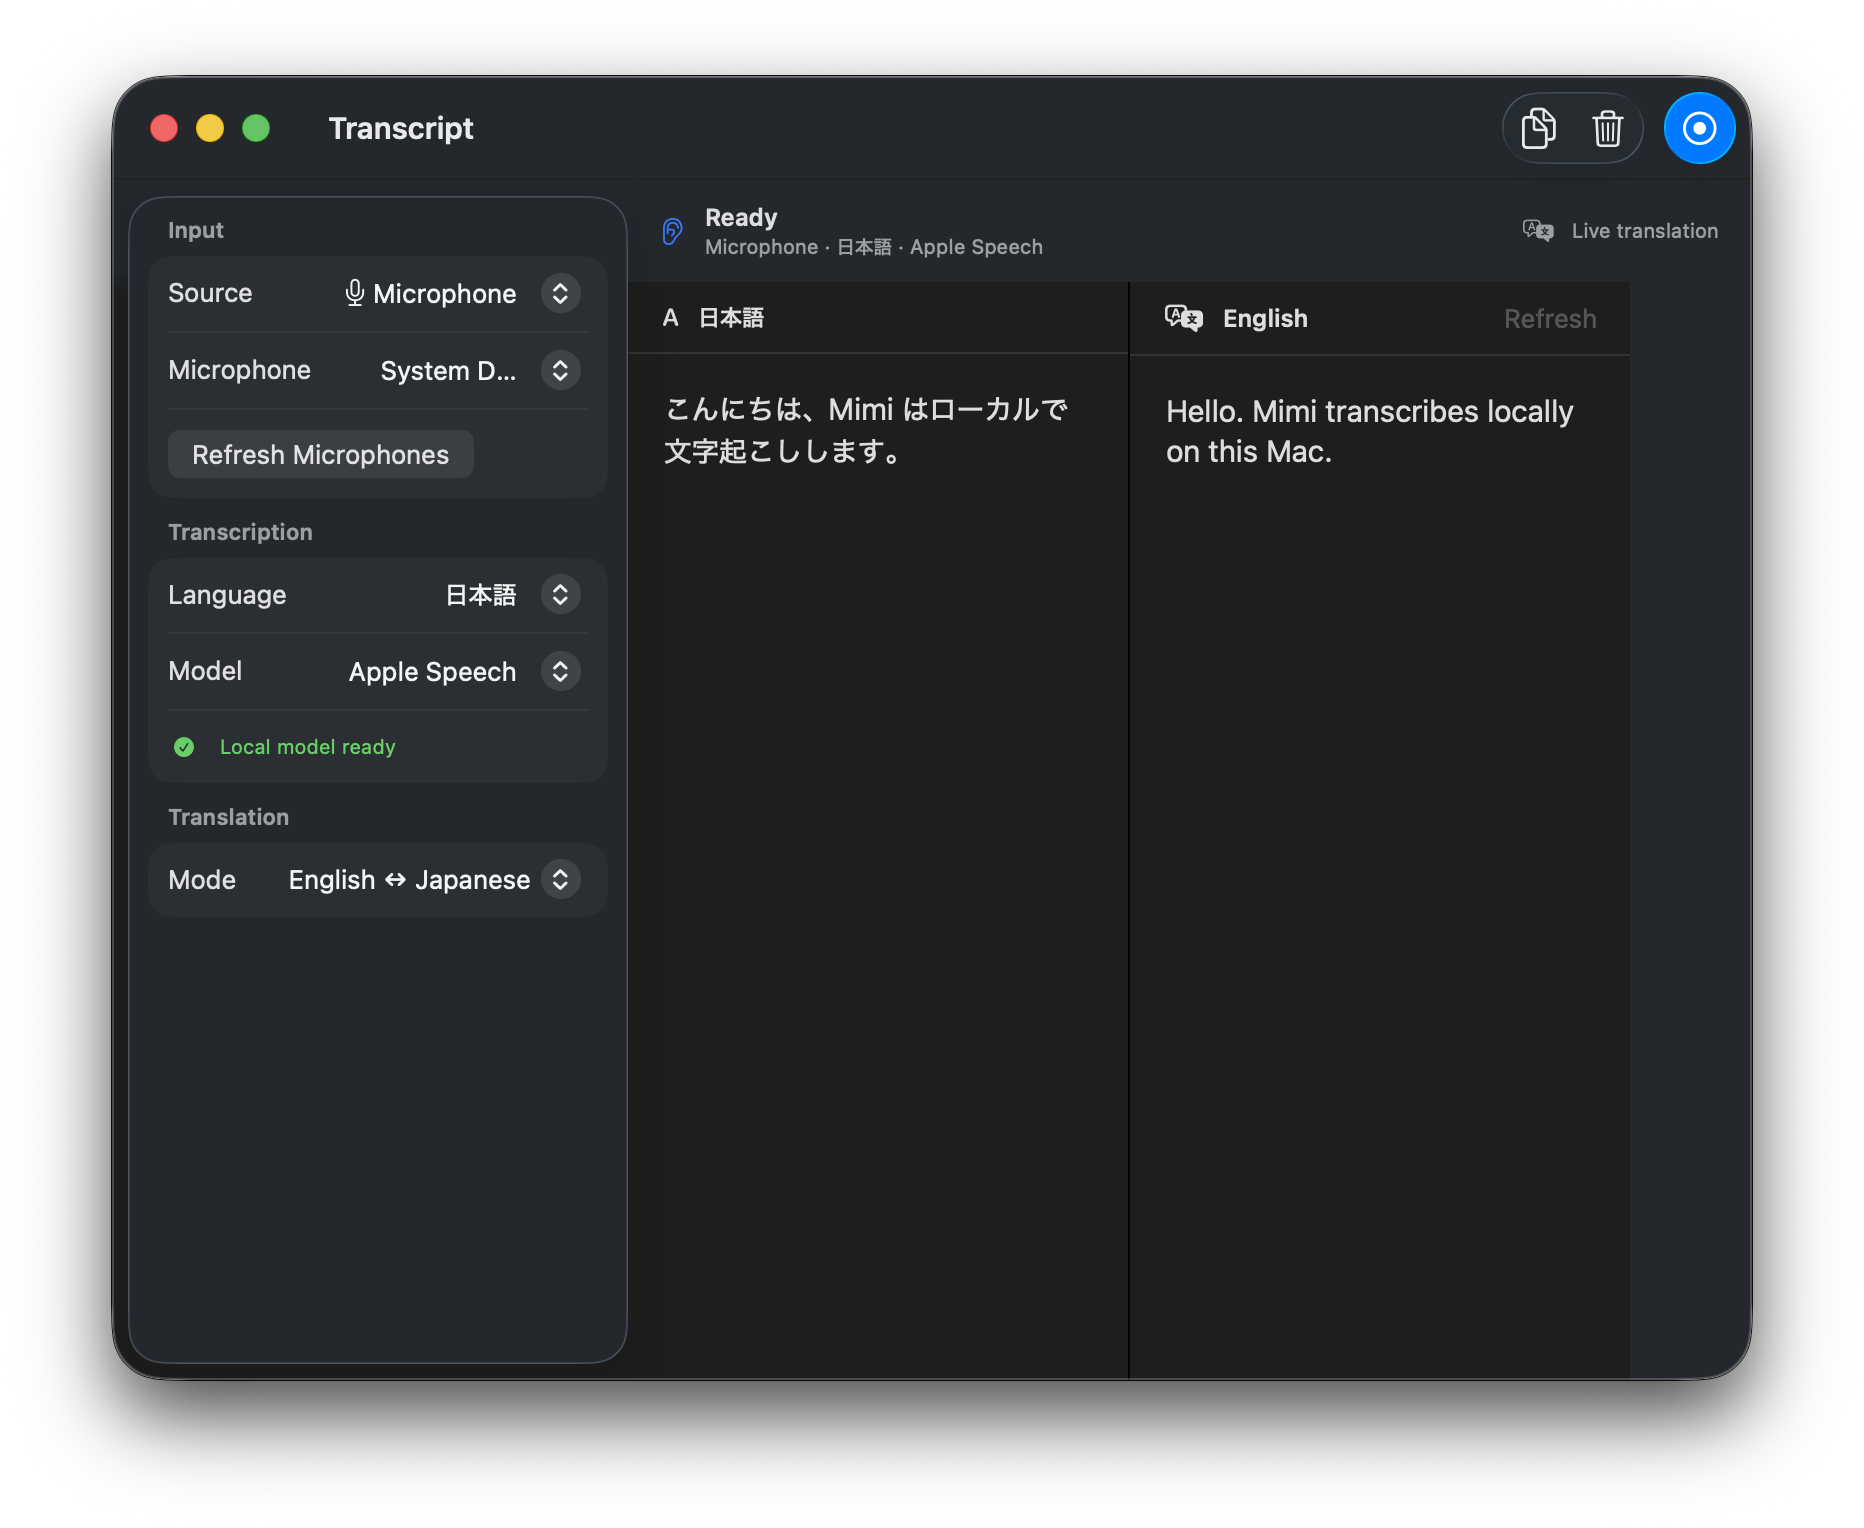
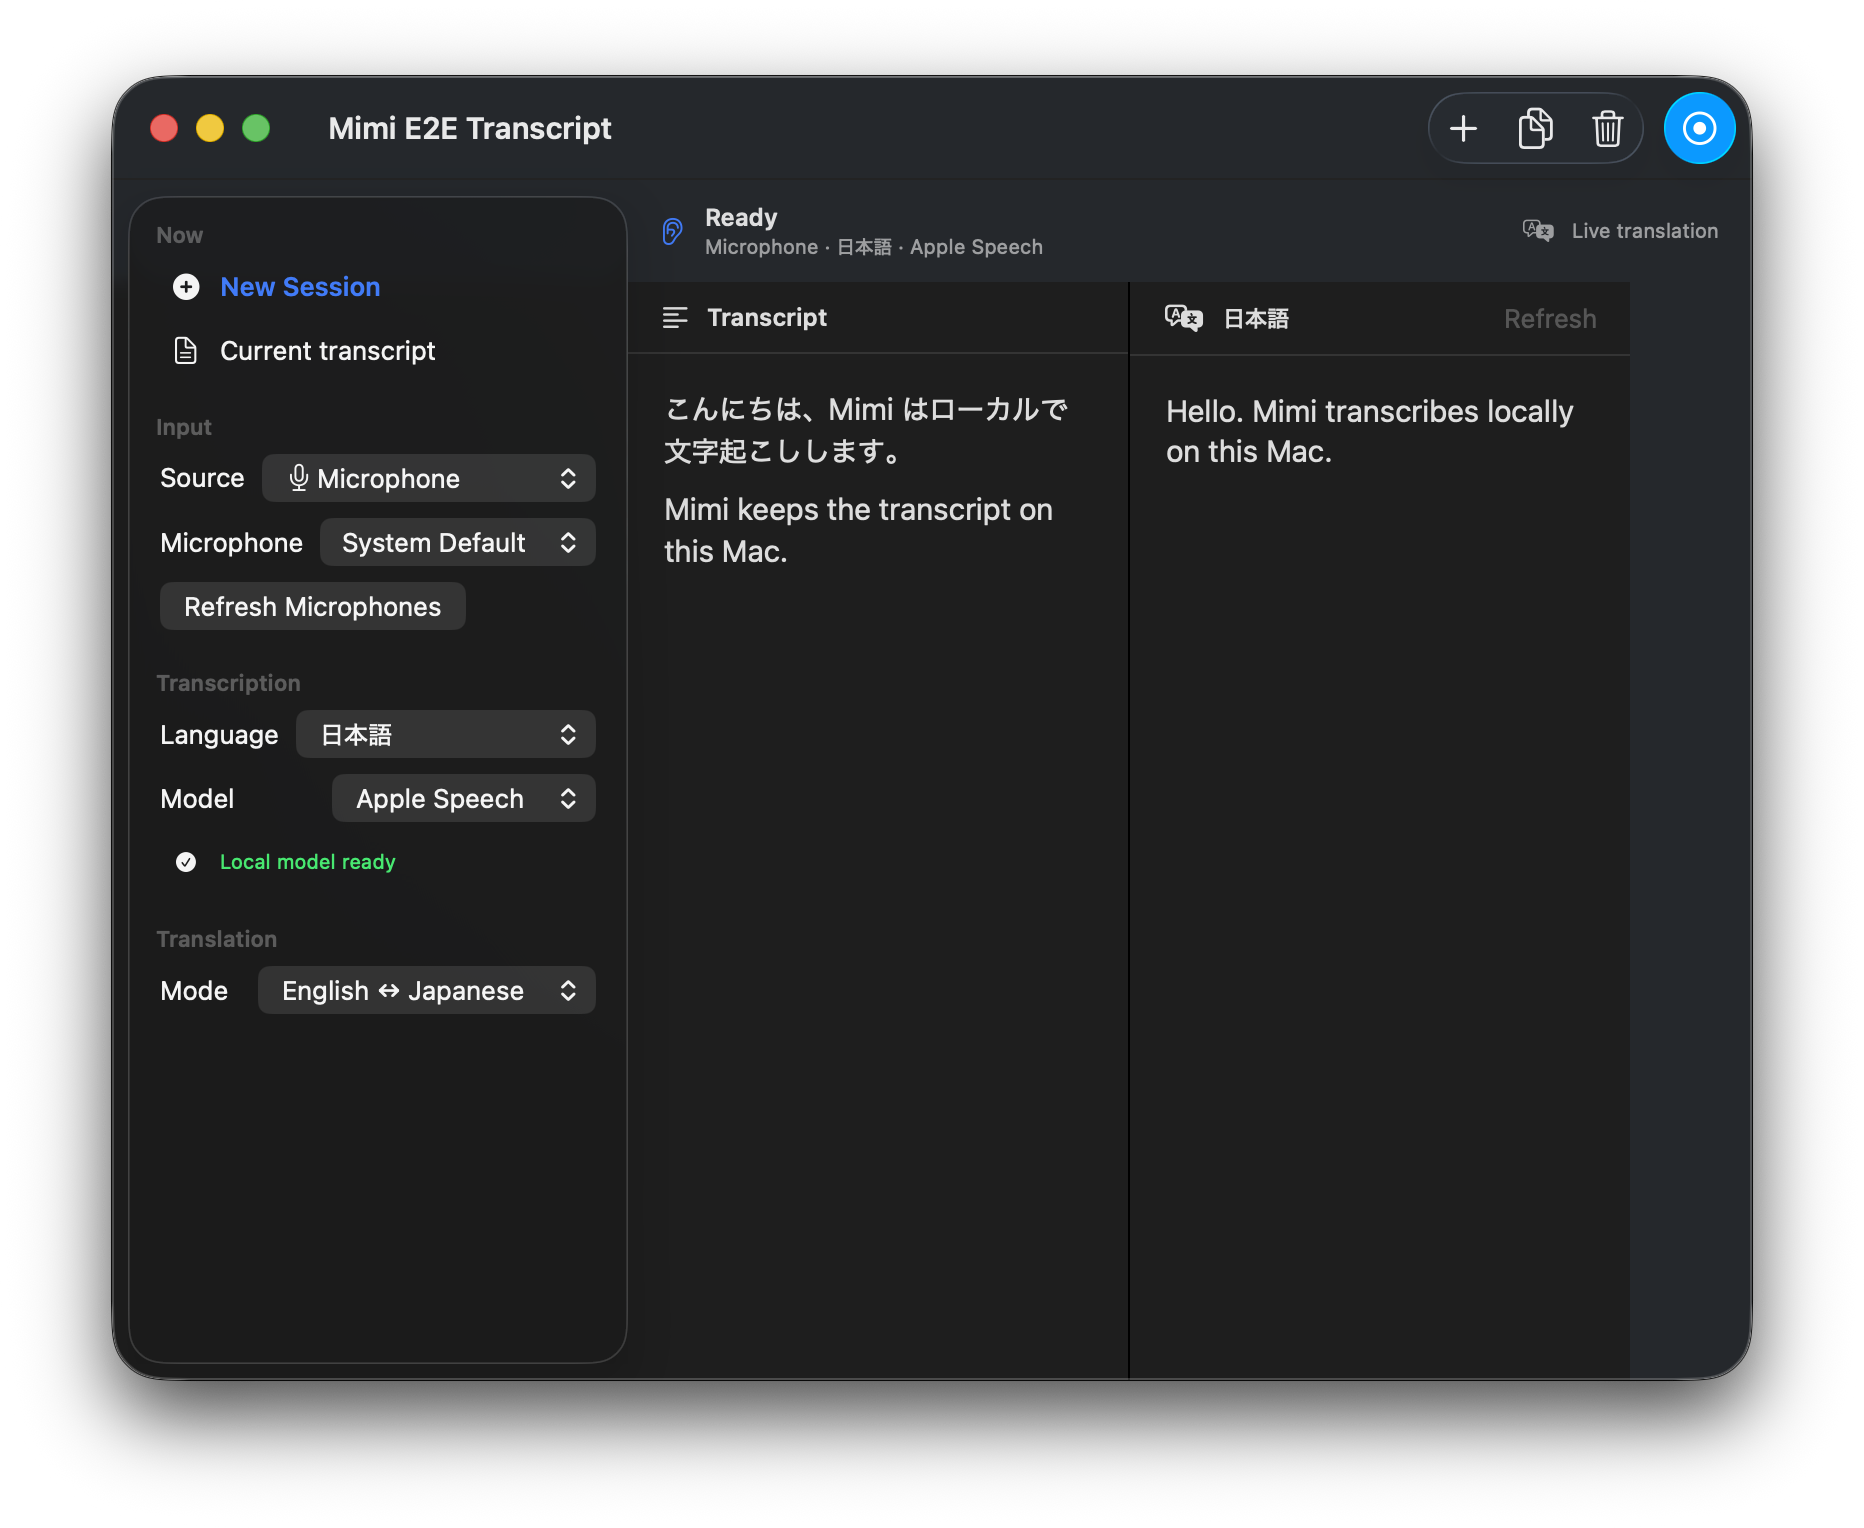
Synchronize realtime captions and polish menu UI

diff --git a/Sources/Mimi/MenuBarView.swift b/Sources/Mimi/MenuBarView.swift
@@ -24,41 +24,47 @@ struct MenuBarView: View {
     }
 
     var body: some View {
-        VStack(alignment: .leading, spacing: MimiMetrics.sectionSpacing) {
-            MimiStatusHeader(state: store.recordingState, source: store.source)
+        ZStack {
+            Color(nsColor: .windowBackgroundColor)
+                .ignoresSafeArea()
 
-            Button {
-                store.newSession()
-            } label: {
-                Label(t("New Session", "新しいセッション"), systemImage: "plus")
-                    .frame(maxWidth: .infinity)
+            VStack(alignment: .leading, spacing: MimiMetrics.sectionSpacing) {
+                MimiStatusHeader(state: store.recordingState, source: store.source)
+
+                if !store.controlsLocked {
+                    Button {
+                        store.newSession()
+                    } label: {
+                        Label(t("New Session", "新しいセッション"), systemImage: "plus")
+                            .frame(maxWidth: .infinity)
+                    }
+                    .buttonStyle(.bordered)
+                    .controlSize(.large)
+                }
+
+                recordingButton
+
+                if let message = store.lastError {
+                    Label(message, systemImage: "exclamationmark.triangle.fill")
+                        .font(.caption)
+                        .foregroundStyle(.orange)
+                        .fixedSize(horizontal: false, vertical: true)
+                        .frame(maxWidth: .infinity, alignment: .leading)
+                        .mimiCard(padding: 10)
+                        .accessibilityLabel("Recording warning: \(message)")
+                }
+
+                configuration
+
+                if needsModelSetupAction {
+                    modelSetup
+                }
+
+                transcriptPreview
+                footer
             }
-            .buttonStyle(.bordered)
-            .controlSize(.large)
-            .disabled(store.controlsLocked)
-
-            recordingButton
-
-            if let message = store.lastError {
-                Label(message, systemImage: "exclamationmark.triangle.fill")
-                    .font(.caption)
-                    .foregroundStyle(.orange)
-                    .fixedSize(horizontal: false, vertical: true)
-                    .frame(maxWidth: .infinity, alignment: .leading)
-                    .mimiCard(padding: 10)
-                    .accessibilityLabel("Recording warning: \(message)")
-            }
-
-            configuration
-
-            if needsModelSetupAction {
-                modelSetup
-            }
-
-            transcriptPreview
-            footer
+            .padding(16)
         }
-        .padding(16)
         .frame(width: 430)
     }
 

diff --git a/Sources/Mimi/FloatingCaptionPanel.swift b/Sources/Mimi/FloatingCaptionPanel.swift
@@ -118,6 +118,7 @@ struct FloatingCaptionView: View {
     @Environment(\.accessibilityReduceTransparency) private var reduceTransparency
     @State private var configuration: TranslationSession.Configuration?
     @State private var translatedText = ""
+    @State private var translatedSourceText = ""
     @State private var requestedText = ""
     @State private var pendingText = ""
     @State private var isTranslating = false
@@ -129,7 +130,10 @@ struct FloatingCaptionView: View {
         return store.document.contentLanguage(fallback: store.sourceLanguage)
     }
     private var sourceText: String {
-        store.document.realtimeTranslationContext(for: sourceLanguage, maximumCharacterCount: 320)
+        store.document.latestCaptionText
+    }
+    private var synchronizedTranslation: String {
+        translatedSourceText == sourceText ? translatedText : ""
     }
 
     var body: some View {
@@ -138,8 +142,14 @@ struct FloatingCaptionView: View {
                 if preferences.floatingCaptionContent != .translation {
                     caption(sourceText, secondary: preferences.floatingCaptionContent == .both)
                 }
-                if preferences.floatingCaptionContent != .original {
-                    caption(translatedText, secondary: false)
+            if preferences.floatingCaptionContent != .original {
+                if !synchronizedTranslation.isEmpty {
+                    caption(synchronizedTranslation, secondary: false)
+                } else if !sourceText.isEmpty {
+                    Text("…")
+                        .font(.title2.weight(.semibold))
+                        .foregroundStyle(.secondary)
+                }
                 }
                 if sourceText.isEmpty && translatedText.isEmpty {
                     Text(preferences.text("Captions will appear here", "字幕がここに表示されます"))
@@ -186,8 +196,12 @@ struct FloatingCaptionView: View {
             do {
                 try await session.prepareTranslation()
                 let response = try await session.translate(text)
-                guard requestedText == text else { return }
+                guard requestedText == text, pendingText == text else {
+                    isTranslating = false
+                    return
+                }
                 translatedText = response.targetText
+                translatedSourceText = text
             } catch {
                 guard requestedText == text else { return }
                 translatedText = preferences.text("Translation is not ready yet.", "翻訳の準備がまだできていません。")
@@ -196,14 +210,18 @@ struct FloatingCaptionView: View {
         }
         .onChange(of: sourceText, initial: true) { _, text in
             pendingText = text
-            if text.isEmpty { translatedText = "" }
+            if text.isEmpty {
+                translatedText = ""
+                translatedSourceText = ""
+            }
         }
         .task(id: sourceLanguage) {
             configuration = nil
             translatedText = ""
+            translatedSourceText = ""
             requestedText = ""
             while !Task.isCancelled {
-                try? await Task.sleep(for: .milliseconds(700))
+                try? await Task.sleep(for: .milliseconds(250))
                 guard !Task.isCancelled,
                       preferences.floatingCaptionContent != .original,
                       !pendingText.isEmpty,

diff --git a/Sources/Mimi/MimiApp.swift b/Sources/Mimi/MimiApp.swift
@@ -384,7 +384,7 @@ final class MimiAppDelegate: NSObject, NSApplicationDelegate {
         guard arguments.contains("--e2e-window") else { return }
 
         let store = AppStore(loadPersistedTranscript: false)
-        store.sourceLanguage = .japanese
+        store.languageMode = .japanese
         store.engineID = .appleSpeechAnalyzer
         store.translationMode = .translateFinalSegments
         store.applyFixture(.final("こんにちは、Mimi はローカルで文字起こしします。"), language: .japanese)
@@ -456,8 +456,15 @@ final class MimiAppDelegate: NSObject, NSApplicationDelegate {
         hostingController.sizingOptions = []
         let window = NSWindow(contentViewController: hostingController)
         window.title = "Mimi E2E \(screen.capitalized)"
-        window.styleMask = [.titled, .closable, .miniaturizable]
-        if screen != "menu" {
+        if screen == "captions" {
+            window.styleMask = [.borderless]
+            window.isOpaque = false
+            window.backgroundColor = .clear
+            window.level = .floating
+        } else {
+            window.styleMask = [.titled, .closable, .miniaturizable]
+        }
+        if screen != "menu", screen != "captions" {
             window.styleMask.insert(.resizable)
         }
         window.setContentSize(size)

diff --git a/Sources/Mimi/MimiDesign.swift b/Sources/Mimi/MimiDesign.swift
@@ -155,13 +155,12 @@ private struct MimiCardModifier: ViewModifier {
     func body(content: Content) -> some View {
         content
             .padding(padding)
-            .background(Color(nsColor: .controlBackgroundColor), in: RoundedRectangle(cornerRadius: MimiMetrics.cardRadius, style: .continuous))
+            .background(Color.primary.opacity(0.045), in: RoundedRectangle(cornerRadius: MimiMetrics.cardRadius, style: .continuous))
             .overlay {
-                RoundedRectangle(cornerRadius: MimiMetrics.cardRadius, style: .continuous)
-                    .strokeBorder(
-                        contrast == .increased ? Color.primary.opacity(0.32) : Color.primary.opacity(0.08),
-                        lineWidth: 1
-                    )
+                if contrast == .increased {
+                    RoundedRectangle(cornerRadius: MimiMetrics.cardRadius, style: .continuous)
+                        .strokeBorder(Color.primary.opacity(0.32), lineWidth: 1)
+                }
             }
     }
 }

diff --git a/Tools/MimiSelfTest/main.swift b/Tools/MimiSelfTest/main.swift
@@ -7,8 +7,19 @@ struct MimiSelfTest {
         testRepeatedFinalTextIsPreserved()
         testStopFinalizesJapaneseVolatileResult()
         testInputLanguageChangeDoesNotRewriteTranscriptLanguage()
+        testFloatingCaptionAlwaysUsesNewestUtterance()
         testRecommendedPacksCoverBothV1Languages()
         print("Mimi self-test passed: transcript coalescing, Japanese finalization, and model routing.")
+    }
+
+    private static func testFloatingCaptionAlwaysUsesNewestUtterance() {
+        var document = TranscriptDocument()
+        document.apply(.final("older line"), language: .english)
+        document.apply(.final("newest final line"), language: .english)
+        expect(document.latestCaptionText == "newest final line", "A stopped caption shows only the newest final utterance")
+
+        document.apply(.partial("current speech arriving now"), language: .english)
+        expect(document.latestCaptionText == "current speech arriving now", "A live caption immediately replaces history with the current partial")
     }
 
     private static func testInputLanguageChangeDoesNotRewriteTranscriptLanguage() {

diff --git a/Sources/MimiCore/Domain.swift b/Sources/MimiCore/Domain.swift
@@ -303,6 +303,13 @@ public struct TranscriptDocument: Codable, Equatable, Sendable {
         segments.map(\.text).joined(separator: "\n")
     }
 
+    /// Caption overlays should follow the newest utterance, not a context
+    /// block whose first lines become stale when the view is truncated.
+    public var latestCaptionText: String {
+        let live = Self.normalized(liveText)
+        return live.isEmpty ? (segments.last?.text ?? "") : live
+    }
+
     /// The transcript owns the language of existing speech. A later input
     /// preference change must never relabel or filter already-saved segments.
     public func contentLanguage(fallback: SpeechLanguage) -> SpeechLanguage {